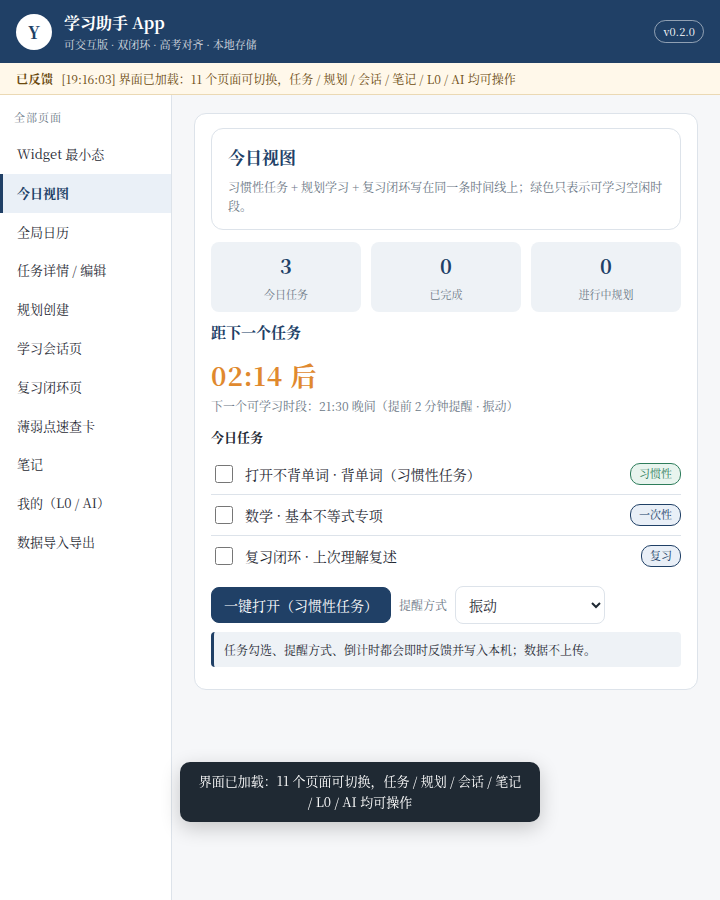
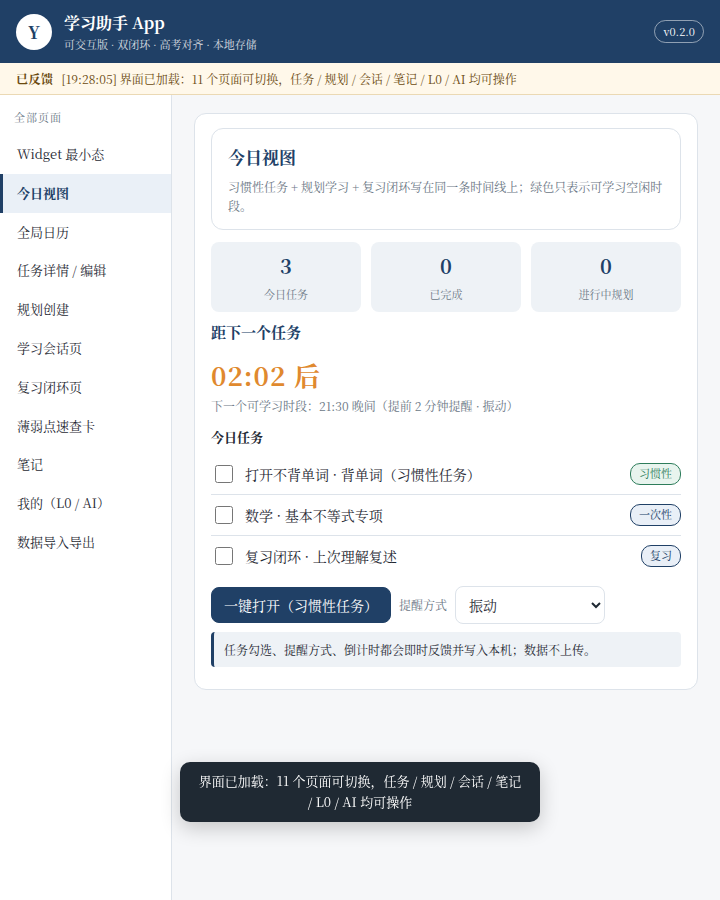
交付前最终留痕：交互验收报告与三档渲染截图（全量458用例全绿）

Changed region(s): [[0.1222, 0.0622, 0.7333, 0.0933], [0.3361, 0.4044, 0.4583, 0.4356]]

diff --git a/docs/交互验收报告.md b/docs/交互验收报告.md
@@ -3,7 +3,7 @@
 > 本报告的每一条都由真实浏览器（CDP 强制视口）**点击 / 输入 / 勾选**后读取 DOM 与 localStorage 得出，
 > 不是对纯 Dart 规则函数的断言。旧 436 用例仍保留，但不作为「界面可用」的验收凭证。
 
-- 执行时间：2026-11-14T11:15:58.216Z
+- 执行时间：2026-11-14T11:28:00.715Z
 - 断言通过：**39**；失败：**0**；结论：**ALL_GREEN**
 
 | 结果 | 项目 | 细节 |
@@ -17,10 +17,10 @@
 | PASS | ③ 勾选任务 → 写入本机 localStorage | stored=true |
 | PASS | ③ 勾选任务 → 反馈条递增 | 3→4 |
 | PASS | ④ 倒计时每秒真的刷新（不是静态数字） | tick 1→3 |
-| PASS | ④ 倒计时格式正确且标注提前量 / 提醒方式 | 02:15 后 |
+| PASS | ④ 倒计时格式正确且标注提前量 / 提醒方式 | 02:03 后 |
 | PASS | ⑤ 提醒方式切到「声音」→ 倒计时说明即时更新 | 下一个可学习时段：21:30 晚间（提前 2 分钟提醒 · 声音） |
-| PASS | ⑥ 一键打开有明确反馈（不假装跳转成功、不含凭证） | 已反馈[19:15:54] 一键打开：已请求打开习惯性任务（外部 App 跳转，本版为本地提示，不含任何凭证） |
-| PASS | ⑦ 空目标提交 → 有红字错误 + 失败反馈（不静默） | 失败[19:15:54] 创建规划失败：目标为空 |
+| PASS | ⑥ 一键打开有明确反馈（不假装跳转成功、不含凭证） | 已反馈[19:27:56] 一键打开：已请求打开习惯性任务（外部 App 跳转，本版为本地提示，不含任何凭证） |
+| PASS | ⑦ 空目标提交 → 有红字错误 + 失败反馈（不静默） | 失败[19:27:56] 创建规划失败：目标为空 |
 | PASS | ⑦ 创建规划 → 生成规划 + 会话并写回全局日历 | ✓ 已创建 P-1：精进基本不等式，能解决 75% 相关题目 · 15 天 · 75% · 已生成会话 SE-1 · 已 |
 | PASS | ⑦ 创建规划 → 反馈条递增 | 8→9 |
 | PASS | ⑧ 摸底测验可选可跳过 → 阶段真的从 pretest 跳到 study | 当前阶段：摸底测验（可选） · 测验提交次数 0 → 当前阶段：看视频 / 学习 · 测验提交次数 0 |
@@ -28,7 +28,7 @@
 | PASS | ⑧ 60% < 75% → 进入归因回路再测一遍 | 未达标（60% < 75%）：进入错因归因 → 继续费曼 → 再测一遍（第 2 次） |
 | PASS | ⑧ 非法成绩 → 明确报错 + 失败反馈 |  |
 | PASS | ⑨ 固定模式 2 四步可逐步推进并收口 | ✓ 已达标：固定模式 2 全部完成，进入今日学习内容 |
-| PASS | ⑨ 尝试改复习模式被明确拒绝（不可配置） | 失败[19:15:54] 已拒绝：复习闭环固定模式 2，不可配置、不可跳过 |
+| PASS | ⑨ 尝试改复习模式被明确拒绝（不可配置） | 失败[19:27:56] 已拒绝：复习闭环固定模式 2，不可配置、不可跳过 |
 | PASS | ⑩ 我的笔记保存 → 落盘 + 可见「已保存」反馈 | 我的手写笔记：一正二定三相等 |
 | PASS | ⑩ 按 anchorId 建立双向关联 |  |
 | PASS | ⑩ 内置笔记区「不显示」真的隐藏（A/C 归档不删） | hidden=true |
